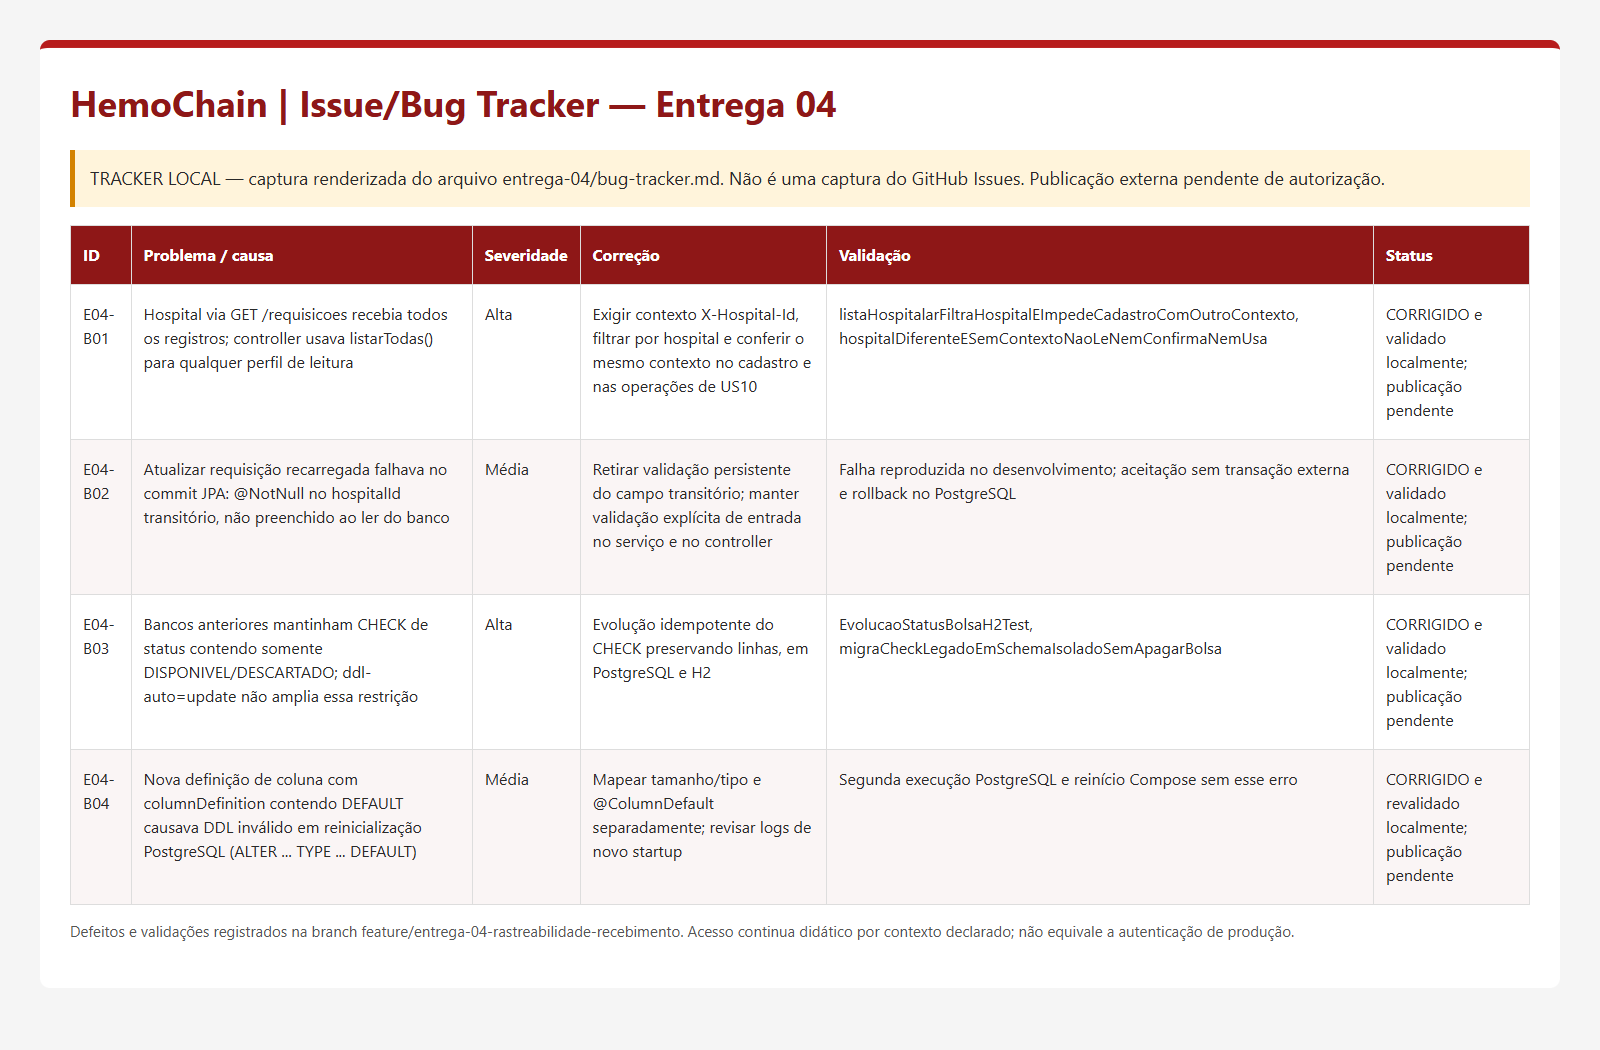
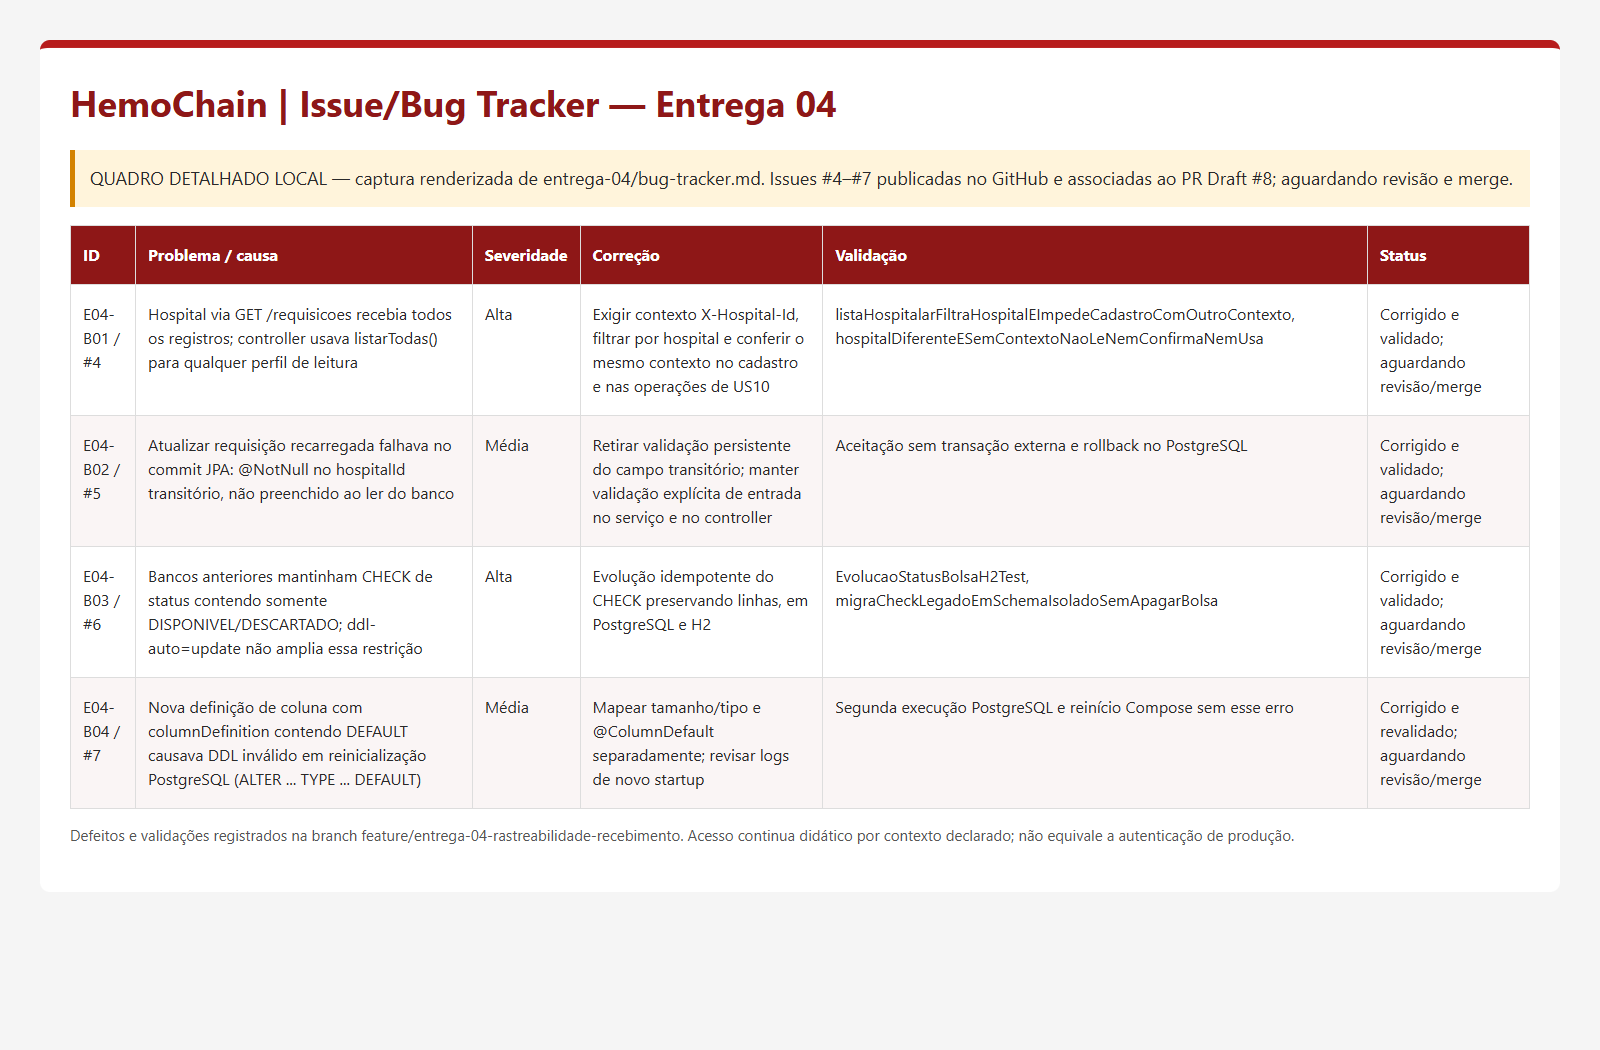
docs: publica referencias de issues, PR e evidencias da CI

diff --git a/entrega-04/homologacao.md b/entrega-04/homologacao.md
@@ -19,21 +19,30 @@ Execução local em 10/11/2026; data acadêmica da entrega: 09/11. Este relatór
 | PostgreSQL | Aceitação/rollback, SQL direto, FK, duas requisições concorrentes, confirmação concorrente e migração de CHECK em schema isolado |
 | Build/Java 17 | Dockerfile executa Maven verify com Java 17 e produz imagem de runtime não root |
 | Persistência e health | Compose down sem -v seguido de up --wait; API e PostgreSQL saudáveis; quatro eventos e entrega idênticos, bolsa UTILIZADA preservada |
-| Documentação | POST-IT, BDD, API/operação, tracker e minutas de issues/PR, dois roteiros de screencast e roteiro da apresentação |
+| Documentação | POST-IT, BDD, API/operação, tracker vinculado às issues e ao PR, dois roteiros de screencast e roteiro da apresentação |
 
 ## Resultados efetivamente executados
 
 | Execução | Ambiente | Resultado |
 |---|---|---|
-| Testes afetados durante implementação | JVM local Java 21, compilação release 17, H2 | 19 testes sem falha na rodada registrada antes da ampliação de rollback |
-| `./mvnw.cmd -B verify` | JVM local Java 21, release 17, H2 | 82 testes, 0 falhas/erros/ignorados, antes da inclusão do teste adicional de rollback de recebimento/uso |
 | Build Docker final `mvn -B verify` | Linux, Maven, **Java 17**, H2 | 83 testes; resultado final no resumo de evidências |
 | `mvn -B -Ppostgres-it -Dtest=AtendimentoHospitalarAceitacaoTest,RastreabilidadeTransacaoTest verify` | PostgreSQL 16 real, JVM local | 17 testes de aceitação/rollback + 4 testes Failsafe de integridade/concorrência/migração, 0 falhas/erros/ignorados |
 | `node scripts/entrega04-ui.cjs` | Edge headless/Playwright, Compose/PostgreSQL | APROVADO; capturas e `resultado-ui.json` |
 
 Os testes Gherkin são especificações mapeadas aos testes JUnit/MockMvc, seguindo o padrão anterior; não há runner Cucumber. A suíte padrão preserva os testes antigos. O teste de FK em PostgreSQL registra um erro SQL esperado dentro de `assertThrows`; isso comprova a rejeição, não uma falha da suíte.
 
-Logs brutos ficam localmente em `.git/entrega04-test-afetados.log`, `.git/entrega04-verify.log`, `.git/entrega04-postgres.log`, `.git/entrega04-docker-build.log`, `.git/entrega04-compose.log` e `.git/entrega04-ui.log`. O resumo versionado registra contagens, comandos e resultados sem credenciais.
+Os resumos versionados em [evidências](evidencias/README.md) registram comandos, contagens e resultados sem credenciais. Logs temporários e arquivos internos de execução não são versionados.
+
+## Publicação e revisão no GitHub
+
+- [Branch publicada](https://github.com/mateusoliveiraadev/HemoChain/tree/feature/entrega-04-rastreabilidade-recebimento), preservando os cinco commits originais até `9b379eb` e acrescentando commits de preparação da publicação.
+- [PR #8](https://github.com/mateusoliveiraadev/HemoChain/pull/8): **Draft**, aberto, base `main`. Sem merge.
+- Issues [#4](https://github.com/mateusoliveiraadev/HemoChain/issues/4), [#5](https://github.com/mateusoliveiraadev/HemoChain/issues/5), [#6](https://github.com/mateusoliveiraadev/HemoChain/issues/6) e [#7](https://github.com/mateusoliveiraadev/HemoChain/issues/7), abertas e associadas ao PR por `Closes`. Causa, severidade, reprodução, correção e testes disponíveis em cada issue.
+- [Captura real do GitHub Issues](evidencias/github-issues.png) e [tracker detalhado](bug-tracker.md).
+- Execuções remotas no commit `9b379eb`: [push aprovado](https://github.com/mateusoliveiraadev/HemoChain/actions/runs/42755213594) e [pull request aprovado](https://github.com/mateusoliveiraadev/HemoChain/actions/runs/42755395418). Maven: 83 testes; PostgreSQL: 17 + 4 testes; Docker/Compose e healthcheck aprovados. Publicação de imagem e deploy ignorados. Ver [evidência remota](evidencias/ci-github-actions.md) e [checks atuais do PR](https://github.com/mateusoliveiraadev/HemoChain/pull/8/checks).
+- A `main` permaneceu em `924d580`. Os jobs de publicação de imagem e deploy são restritos a push na `main`; não foi iniciado deploy de produção.
+
+Na preparação final, minutas de issues/PR já publicadas, resumos operacionais duplicados e seu gerador foram retirados da árvore atual. Documentação acadêmica, testes, evidências verificáveis, declarações de uso de IA e todo o histórico anterior foram preservados.
 
 ## Homologação operacional e integridade
 
@@ -41,12 +50,10 @@ O ambiente usa projeto Compose isolado `hemochain-entrega04`, API na porta 18084
 
 A demonstração reduz o prazo para `PT5S`, com verificação automática espaçada e verificação explícita na tela. Isso é configuração exclusiva de homologação; o padrão versionado permanece `PT24H` e verificação a cada 60 segundos.
 
-Conferir o resumo final de [evidências](evidencias/README.md), incluindo health, persistência após reinicialização, Git e revisão de segredos. A imagem e o Compose não disparam deploy no Render.
+Verificados health, persistência após reinicialização, integridade Git e padrões comuns de credenciais. Não há `.env` real versionado. A imagem preexistente da Entrega 03 mantém o hash registrado na auditoria e não integra os commits desta entrega. Essa revisão não substitui uma auditoria de segurança completa. A imagem e o Compose não disparam deploy no Render.
 
-## PENDENTE — equipe, autorização ou publicação externa
+## PENDENTE — equipe
 
-- Autorizar publicação da branch, das issues e do PR draft; minutas estão completas. Sem autorização, permanecem locais.
-- Executar/conferir os checks remotos do GitHub Actions para o HEAD publicado. O workflow foi preparado, mas execução local não equivale a execução remota.
 - Revisão da equipe e decisão de merge. **Não foi autorizado nem executado merge na main ou deploy de produção.**
 - Gravar os dois screencasts com áudio ou legendas, publicar no YouTube pela conta da equipe e inserir os links reais no README. Roteiros estão prontos; não há vídeo YouTube desta entrega.
 - Ensaiar e apresentar o produto, confirmar divisão entre integrantes e declarar o apoio de IA conforme a disciplina.
@@ -54,7 +61,7 @@ Conferir o resumo final de [evidências](evidencias/README.md), incluindo health
 
 ## BLOQUEADO — impedimentos técnicos
 
-Nenhum impedimento técnico local remanescente identificado na homologação registrada. Docker inicialmente indisponível foi iniciado e os testes PostgreSQL foram executados. Publicações externas sem autorização são pendências de equipe, não falhas mascaradas.
+Nenhum impedimento técnico remanescente identificado. As execuções de push e PR passaram sem divergência funcional entre a homologação local e a CI. A preparação da publicação não exigiu alterações de código.
 
 ## Checklist da disciplina
 
@@ -72,16 +79,16 @@ Nenhum impedimento técnico local remanescente identificado na homologação reg
 | Testes unitários, integração, aceitação e regressão | CONCLUÍDO |
 | Build Maven, Docker/Compose e healthchecks | CONCLUÍDO, ver evidências |
 | Persistência após reinicialização | CONCLUÍDO — histórico e entrega idênticos; `persistencia.json` |
-| CI preparada para PostgreSQL e compatibilidade Render | CONCLUÍDO local; execução remota PENDENTE |
+| CI preparada para PostgreSQL e compatibilidade Render | CONCLUÍDO — Maven, PostgreSQL e container aprovados remotamente; deploy não executado |
 | Branch e commits, sem merge/deploy | CONCLUÍDO |
-| Issues e PR | Preparados localmente; publicação PENDENTE de autorização |
+| Issues e PR | CONCLUÍDO — quatro issues publicadas e PR #8 Draft aberto |
 | README e POST-IT da Entrega 04 — 09/11 | CONCLUÍDO |
-| Tracker com causa, severidade, correção e testes | CONCLUÍDO local; GitHub PENDENTE |
-| Captura do tracker | CONCLUÍDO — `bug-tracker.png`, tracker local identificado |
+| Tracker com causa, severidade, correção e testes | CONCLUÍDO — issues #4–#7 vinculadas ao PR |
+| Captura do tracker | CONCLUÍDO — GitHub Issues e quadro detalhado local |
 | Roteiro screencast sistema | CONCLUÍDO |
 | Roteiro screencast código | CONCLUÍDO |
 | Vídeos YouTube com áudio/legenda e links README | PENDENTE da equipe |
 | Roteiro final do produto e limitações | CONCLUÍDO |
-| Revisão de Git e credenciais | CONCLUÍDO — fsck, diff, links e padrões comuns aprovados; limites em `auditoria-final.json` |
+| Revisão de Git e credenciais | CONCLUÍDO — fsck, diff, links e padrões comuns; alteração preexistente preservada |
 
 A entrega técnica local e a entrega acadêmica publicada são etapas distintas. Os itens externos acima precisam ser encerrados pela equipe antes de declarar todos os requisitos da disciplina concluídos.

diff --git a/entrega-04/bug-tracker.md b/entrega-04/bug-tracker.md
@@ -1,13 +1,13 @@
 # Issue/Bug Tracker — Entrega 04
 
-Tracker local de defeitos reais. As evidências de execução e a captura desta tabela são locais; publicação em GitHub Issues depende de autorização. Não representa uma captura do GitHub.
+Defeitos publicados em [GitHub Issues](https://github.com/mateusoliveiraadev/HemoChain/issues?q=is%3Aissue+E04). Correções disponíveis no [PR Draft #8](https://github.com/mateusoliveiraadev/HemoChain/pull/8), aguardando revisão e merge. As issues permanecem abertas.
 
 | ID | Problema / causa | Severidade | Correção | Validação | Status |
 |---|---|---|---|---|---|
-| E04-B01 | Hospital via `GET /requisicoes` recebia todos os registros; controller usava `listarTodas()` para qualquer perfil de leitura | Alta | Exigir contexto `X-Hospital-Id`, filtrar por hospital e conferir o mesmo contexto no cadastro e nas operações de US10 | `listaHospitalarFiltraHospitalEImpedeCadastroComOutroContexto`, `hospitalDiferenteESemContextoNaoLeNemConfirmaNemUsa` | CORRIGIDO e validado localmente; publicação pendente |
-| E04-B02 | Atualizar requisição recarregada falhava no commit JPA: `@NotNull` no `hospitalId` transitório, não preenchido ao ler do banco | Média | Retirar validação persistente do campo transitório; manter validação explícita de entrada no serviço e no controller | Falha reproduzida no desenvolvimento; aceitação sem transação externa e rollback no PostgreSQL | CORRIGIDO e validado localmente; publicação pendente |
-| E04-B03 | Bancos anteriores mantinham CHECK de status contendo somente DISPONIVEL/DESCARTADO; `ddl-auto=update` não amplia essa restrição | Alta | Evolução idempotente do CHECK preservando linhas, em PostgreSQL e H2 | `EvolucaoStatusBolsaH2Test`, `migraCheckLegadoEmSchemaIsoladoSemApagarBolsa` | CORRIGIDO e validado localmente; publicação pendente |
-| E04-B04 | Nova definição de coluna com `columnDefinition` contendo DEFAULT causava DDL inválido em reinicialização PostgreSQL (`ALTER ... TYPE ... DEFAULT`) | Média | Mapear tamanho/tipo e `@ColumnDefault` separadamente; revisar logs de novo startup | Segunda execução PostgreSQL e reinício Compose sem esse erro | CORRIGIDO e revalidado localmente; publicação pendente |
+| [E04-B01 / #4](https://github.com/mateusoliveiraadev/HemoChain/issues/4) | Hospital via `GET /requisicoes` recebia todos os registros; controller usava `listarTodas()` para qualquer perfil de leitura | Alta | Exigir contexto `X-Hospital-Id`, filtrar por hospital e conferir o mesmo contexto no cadastro e nas operações de US10 | `listaHospitalarFiltraHospitalEImpedeCadastroComOutroContexto`, `hospitalDiferenteESemContextoNaoLeNemConfirmaNemUsa` | Corrigido e validado; aguardando revisão/merge |
+| [E04-B02 / #5](https://github.com/mateusoliveiraadev/HemoChain/issues/5) | Atualizar requisição recarregada falhava no commit JPA: `@NotNull` no `hospitalId` transitório, não preenchido ao ler do banco | Média | Retirar validação persistente do campo transitório; manter validação explícita de entrada no serviço e no controller | Aceitação sem transação externa e rollback no PostgreSQL | Corrigido e validado; aguardando revisão/merge |
+| [E04-B03 / #6](https://github.com/mateusoliveiraadev/HemoChain/issues/6) | Bancos anteriores mantinham CHECK de status contendo somente DISPONIVEL/DESCARTADO; `ddl-auto=update` não amplia essa restrição | Alta | Evolução idempotente do CHECK preservando linhas, em PostgreSQL e H2 | `EvolucaoStatusBolsaH2Test`, `migraCheckLegadoEmSchemaIsoladoSemApagarBolsa` | Corrigido e validado; aguardando revisão/merge |
+| [E04-B04 / #7](https://github.com/mateusoliveiraadev/HemoChain/issues/7) | Nova definição de coluna com `columnDefinition` contendo DEFAULT causava DDL inválido em reinicialização PostgreSQL (`ALTER ... TYPE ... DEFAULT`) | Média | Mapear tamanho/tipo e `@ColumnDefault` separadamente; revisar logs de novo startup | Segunda execução PostgreSQL e reinício Compose sem esse erro | Corrigido e revalidado; aguardando revisão/merge |
 
 ## Limitação mantida, sem alegar correção de autenticação
 
@@ -20,4 +20,4 @@ O cabeçalho didático de contexto pode ser informado pelo cliente. A correção
 - B03: banco com bolsa disponível e CHECK antigo; executar inicialização de evolução; linha permanece e estado ENTREGUE passa a ser aceito; estado desconhecido continua bloqueado.
 - B04: iniciar duas vezes contra o mesmo PostgreSQL e examinar os logs; a coluna status mantém default SOLICITADA e não há comando de alteração de tipo com DEFAULT.
 
-As correções estão na branch da Entrega 04. As minutas completas para issues estão em [issues-preparadas.md](issues-preparadas.md); o PR está em [pull-request.md](pull-request.md).
+As issues registram causa, reprodução, severidade, correção, validação e os commits de referência. O PR #8 associa as quatro por `Closes`, sem fechá-las antes de eventual merge.

diff --git a/entrega-04/evidencias/README.md b/entrega-04/evidencias/README.md
@@ -14,12 +14,14 @@ Capturas reais da aplicação local com dados sintéticos, geradas pelo script v
 | `08-alerta-pendente.png` | Prazo de 5 segundos ultrapassado e alerta real |
 | `fluxo-ui.json` | IDs/código sintéticos e eventos retornados pela API |
 | `resultado-ui.json` | Resultado do teste de interface e erros JavaScript |
-| `bug-tracker.png` | Captura de tracker **local**, não GitHub Issues |
+| `bug-tracker.png` | Quadro local com causas, correções e validações |
+| `github-issues.png` | Captura real das quatro issues publicadas no GitHub |
+| `github-actions.png` | Captura da execução remota aprovada do PR no commit `9b379eb` |
+| `ci-github-actions.md` | Links e resultados reais de Maven, PostgreSQL, Docker e healthcheck na CI |
 | `persistencia.json` | Comparação antes/depois de parar e recriar containers, preservando volume |
 | `testes-maven-java17.txt` | Resumo extraído do build Docker real, suíte completa |
 | `testes-postgresql.txt` | Resumo real de aceitação/rollback e integração PostgreSQL |
-| `validacao-final.json` | Verificações finais de build, interface, operação e Git |
 
 O prazo de cinco segundos é exclusivo do ambiente de demonstração; o padrão é 24 horas. O script usa Edge instalado e Playwright. Para reproduzir sem dependências Java novas, instalar Playwright numa pasta local ignorada e definir `PLAYWRIGHT_MODULE` com o caminho do módulo. Usar `HEMOCHAIN_URL` para a API e `HEMOCHAIN_UI_PENDENCIA=true` apenas com o prazo reduzido configurado. Nunca apontar esse script para produção.
 
-Resumo de execução e persistência: ver `validacao-final.json` quando gerado e o [relatório de homologação](../homologacao.md). A captura do tracker representa os problemas descritos em `entrega-04/bug-tracker.md`, com indicação de publicação externa pendente.
+Resultados locais e remotos constam no [relatório de homologação](../homologacao.md). O [tracker](../bug-tracker.md) relaciona as issues #4–#7 ao PR Draft #8. Os resumos de teste, dados sintéticos e comparação após reinício foram preservados; minutas substituídas pelas publicações e resumos operacionais redundantes foram retirados.

diff --git a/entrega-04/evidencias/ci-github-actions.md b/entrega-04/evidencias/ci-github-actions.md
@@ -1,0 +1,19 @@
+# GitHub Actions — Entrega 04
+
+Execuções remotas concluídas em 10/11/2026 para o commit `9b379eb421008bcd92bca1234be781fd2afa3f06`:
+
+- [Push da branch — aprovado](https://github.com/mateusoliveiraadev/HemoChain/actions/runs/42755213594).
+- [Pull request — aprovado](https://github.com/mateusoliveiraadev/HemoChain/actions/runs/42755395418).
+- [Checks atuais do PR Draft #8](https://github.com/mateusoliveiraadev/HemoChain/pull/8/checks), incluindo novas execuções após atualizações documentais.
+
+| Job | Resultado remoto |
+|---|---|
+| Build e testes (Maven) | Sucesso; Java 17, `mvn -B verify`, 83 testes, 0 falhas/erros/ignorados |
+| US09 e US10 (PostgreSQL real) | Sucesso; PostgreSQL 16, 17 testes de aceitação/rollback e 4 de integridade/concorrência/migração, 0 falhas/erros/ignorados |
+| Container sobe do zero (compose + healthcheck) | Sucesso; Docker build com 83 testes, API e banco saudáveis, `/actuator/health` retornou `{"status":"UP"}` |
+| Publica imagem no GHCR | Ignorado, conforme condição restrita a push na `main` |
+| Deploy no Render | Ignorado; nenhum deploy de produção executado |
+
+Os resultados foram conferidos no estado dos jobs e nos logs remotos, separadamente dos testes locais. Não houve divergência funcional ou falha introduzida pela Entrega 04 nessas execuções. Não foi necessário alterar código ou repetir a suíte local durante a preparação da publicação.
+
+Os artefatos `surefire-reports` e `postgres-reports` ficam disponíveis nas respectivas execuções do GitHub Actions, sujeitos à retenção do serviço. A captura `github-actions.png` registra a execução de PR acima. Os logs temporários usados para conferência não são versionados.

diff --git a/entrega-04/auditoria.md b/entrega-04/auditoria.md
@@ -4,14 +4,14 @@ Data de execução: 10/11/2026. A seção acadêmica mantém a data prevista **0
 
 ## Repositório e preservação
 
-- Cópia existente: `D:\Desenvolvimento\Projetos\HemoChain`; nenhum clone necessário.
+- Utilizada a cópia local existente; nenhum clone necessário.
 - Branch inicial: `main`; HEAD inicial `71f9f4cebb1b17f0e7d50f7a4e2fbd1efb30a4f3`.
 - Remote: `https://github.com/mateusoliveiraadev/HemoChain.git`.
 - Após `git fetch origin`: local 0 commits à frente e 21 atrás; atualização por `git merge --ff-only origin/main` para `924d580`.
 - Branch de trabalho: `feature/entrega-04-rastreabilidade-recebimento`.
[1 lines of base64/hex data omitted]
 - Nenhum `reset --hard`, `clean`, rebase destrutivo, merge na main ou deploy de produção.
-- GitHub consultado por conector: PRs #1 (container/TDD/deploy), #2 e #3 (documentação). Sem issues existentes na consulta inicial. Branches remotas examinadas com fetch/listagem e histórico; nenhuma implementação de US09/US10 encontrada na main atualizada.
+- Histórico remoto consultado: PRs #1 (container/TDD/deploy), #2 e #3 (documentação). Sem issues existentes na consulta inicial. Branches remotas examinadas com fetch/listagem e histórico; nenhuma implementação de US09/US10 encontrada na main atualizada.
 
 ## Fontes lidas
 
